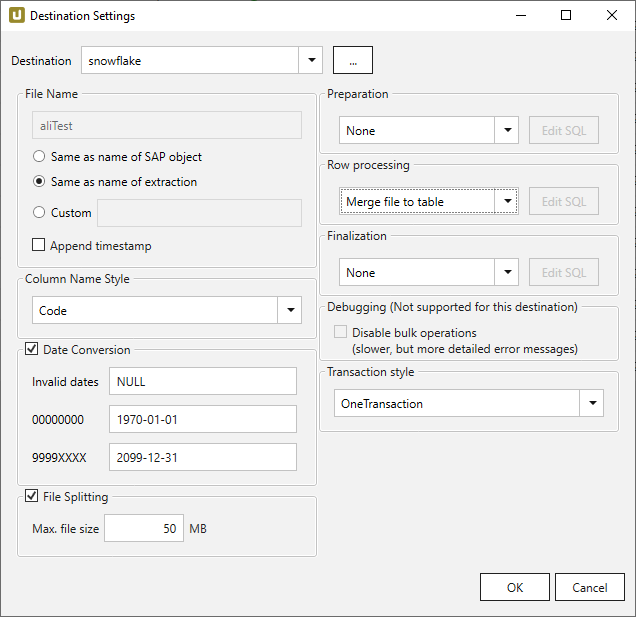
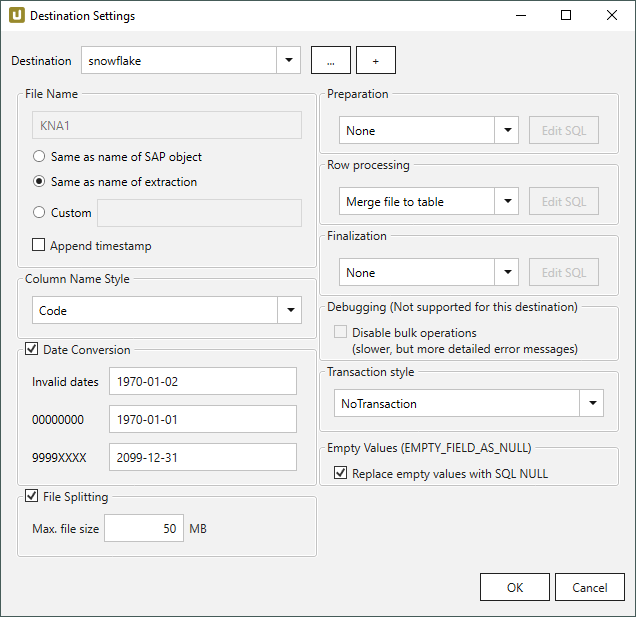
Snowflake Replace empty values with SQL NULL

diff --git a/content/_en/xtract-universal/destinations/snowflake.md b/content/_en/xtract-universal/destinations/snowflake.md
@@ -201,6 +201,17 @@ You can use [script expressions](https://help.theobald-software.com/en/xtract-un
 
 {% include _content/en/xu-specific/destinations/general/transaction-style.md %}
 
+### Empty Values
+
+{: .box-warning }
+**Warning! NULL result in a non-nullable column.**
+By default empty strings are converted to NULL values when uploading data to Snowflake. To deactivate the conversion, disable **Replace empty values with SQL NULL**.
+
+**Replace empty values with SQL NULL**<br>
+This option controls the Snowflake file format parameter EMPTY_FIELD_AS_NULL.
+If **Replace empty values with SQL NULL** is active, empty strings are converted to NULL values when uploading data to Snowflake.
+
+
 ## Merging Data
 
 The following example depicts the update of the existing data records in a database by running an extraction to merge data. 

diff --git a/content/_de/xtract-universal/destinationen/snowflake.md b/content/_de/xtract-universal/destinationen/snowflake.md
@@ -201,7 +201,16 @@ Sie können [Skript-Ausdrücke](https://help.theobald-software.com/de/xtract-uni
 
 {% include _content/de/xu-specific/destinationen/general/transaction-style.md %}
 
+### Empty Values
 
+{: .box-warning }
+**Warnung! NULL result in a non-nullable column.**
+Standardmäßig werden leere Strings in Snowflake zu Null-Werten konvertiert. 
+Um die Konvertierung nicht durchzuführen, deaktivieren Sie **Replace empty values with SQL NULL**.
+
+**Replace empty values with SQL NULL**<br>
+Diese Option kontrolliert den Snowflake Parameter EMPTY_FIELD_AS_NULL.
+Wenn **Replace empty values with SQL NULL** aktiv ist, werden leere Strings beim Upload nach Snowflake zu NULL-Werten konvertiert.
 
 ## Daten Mergen
 
